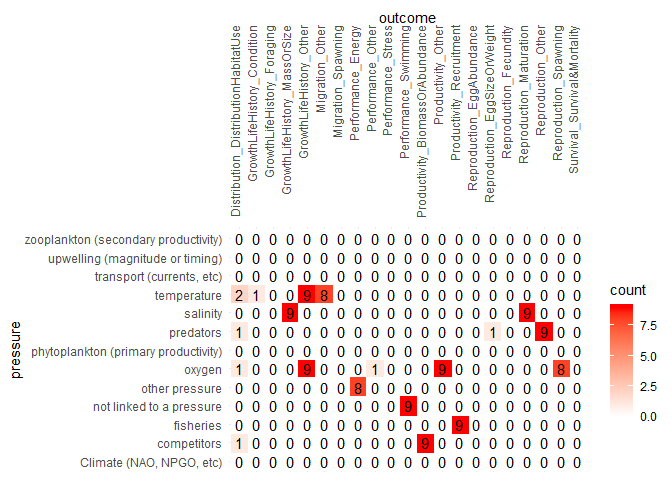
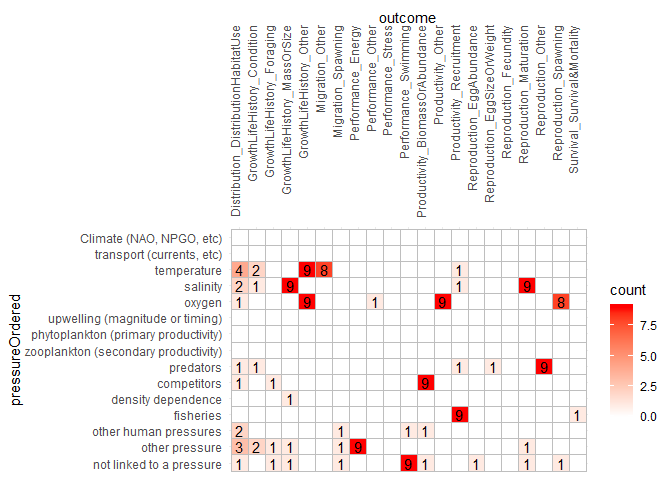
Updated README file

Changed region(s): [[0.0, 0.4688, 0.875, 1.0]]

diff --git a/README.md b/README.md
@@ -15,8 +15,12 @@ To install the package you must use the "devtools" package from CRAN. If you hav
 
 ``` r
 # Install and load devtools package
-install.packages("devtools")
+#install.packages("devtools")
 library("devtools")
+# only run if you change a function:
+#library(roxygen2)
+#library(digest)
+#document()
 ```
 
 Next install the ForageFishLitReview package from GitHub using the devtools package function "install\_github".
@@ -39,7 +43,12 @@ library(readxl)
 ExampleFilePath<-system.file("extdata","Literature_Data.xlsm",package="ForageFishLitReview")
 
 ff_table<-read_excel(ExampleFilePath,sheet="Example 2")
+```
 
+    ## New names:
+    ## * `` -> ...43
+
+``` r
 dropdowns<-read_excel(ExampleFilePath,sheet="Do Not Edit dropdown options")
 ```
 
@@ -60,11 +69,25 @@ data1<-ff_table[,which(colnames(ff_table)%in%outcomes)]
 
 pressure_data<-pressure_table(pressures,data1)
   
-                      
-                      
-ggplot(pressure_data, aes(x=outcome, y=pressure, col = count, fill = count, label = count)) +
-  geom_tile() +
-  geom_text(col = "black") +
+library(splitstackshape)
+```
+
+    ## Warning: package 'splitstackshape' was built under
+    ## R version 3.6.3
+
+``` r
+pressure_data$outcomeforsplit<-pressure_data$outcome
+pressure_data<-cSplit(pressure_data, "outcomeforsplit", sep="_", type.convert=FALSE)
+colnames(pressure_data)<-c("pressure","outcome","count","outcome1","outcome2")
+
+#change the order in which the pressures are plotted 
+pressure_data$pressureOrdered = factor(pressure_data$pressure, levels=rev(c(unique(pressures))))
+                                                                          
+#still need to work on how to label using outcome1 and outcome2
+ggplot(pressure_data, aes(x=outcome, y=pressureOrdered, col = count, fill = count, label = count)) +
+  geom_tile(color="grey") +
+  #geom_text(col = "black") +
+  geom_text(data=subset(pressure_data,count != 0),col="black")+
   theme_minimal() +
   scale_fill_gradient2(low = "white", high = "red") +
   scale_color_gradient2(low = "white", high = "red")+
@@ -73,3 +96,63 @@ ggplot(pressure_data, aes(x=outcome, y=pressure, col = count, fill = count, labe
 ```
 
 ![](Code_files/figure-markdown_github/grep%20the%20words-1.png)
+
+``` r
+###     ***
+
+#then need to create species specific / region specific plots at some point #in the future
+
+
+#number of references by report type and publication year across all species
+library(dplyr)
+StudiesByYr_Type <- ff_table %>%
+  group_by(`Year published`,`Report type`) %>%
+  count()
+colnames(StudiesByYr_Type)<-c("Year","ReportType","count")
+#colour blind palette
+cb1Palette <- c("#000000", "#E69F00", "#56B4E9", "#009E73", "#F0E442", "#0072B2", "#D55E00", "#CC79A7","#999999")
+
+ggplot(StudiesByYr_Type)+
+  geom_bar(aes(y=count, x=Year, fill=ReportType),stat="identity")+
+  scale_fill_manual(values=cb1Palette)
+```
+
+![](Code_files/figure-markdown_github/grep%20the%20words-2.png)
+
+``` r
+#life history stage by life history stage and species
+library(dplyr)
+#get unique list of life history stages
+lifestage<-c(unique(unlist(dropdowns[,12])))
+
+#get unique list of species
+LHS_outcomes<-c(unique(unlist(ff_table$`Focus species Common Name`)))
+
+#put species into columns with life history stages as values for the rows in those columns
+data2<-pivot_wider(ff_table,id_cols=NULL,names_from = "Focus species Common Name",values_from="Life stage studied (Adult, Juvenile, Larval, Egg)")
+#subset the data to include only the species columns
+data2<-data2[,c(which(colnames(data2)%in%LHS_outcomes))]
+
+#Here we make the data using the ForageFishLitReview function "lifestage_table" by subsetting the outcome column and counting how many times each of the lifestages occurs in the column. 
+#use the function lifestage_table
+lifestage_data<-lifestage_table(lifestage,data2)
+
+#rename columns for ease
+colnames(lifestage_data)<-c("Lifestage","Fish", "Count")
+
+#barplot of the count of references by species and life history stage
+#remove NAs for plotting
+lifestage_data<-na.omit(lifestage_data)
+#change the order in which the life history stages are plotted and listed in the legend
+lifestage_data$LifestageOrdered = factor(lifestage_data$Lifestage, levels=c("Adult","Juvenile","Larval","Egg","not specified"))
+#colour blind palette
+cb2Palette <- c("#0072B2","#56B4E9","#009E73","#E69F00", "#999999")
+#stacked barplot
+ggplot(lifestage_data)+ 
+  geom_bar(aes(x=Fish, y=Count, fill=LifestageOrdered), stat="identity")+
+  scale_colour_discrete(na.translate = F) +
+  theme(axis.text.x = element_text(angle = 90, vjust = 0.5, hjust=1))+
+  scale_fill_manual(values=cb2Palette)
+```
+
+![](Code_files/figure-markdown_github/grep%20the%20words-3.png)
